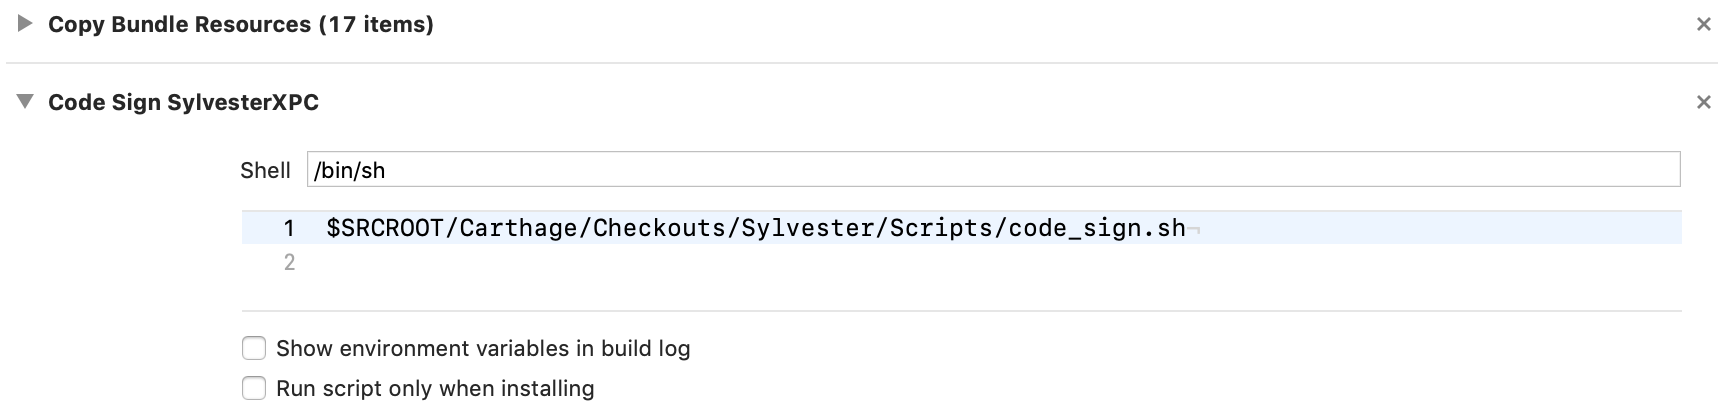
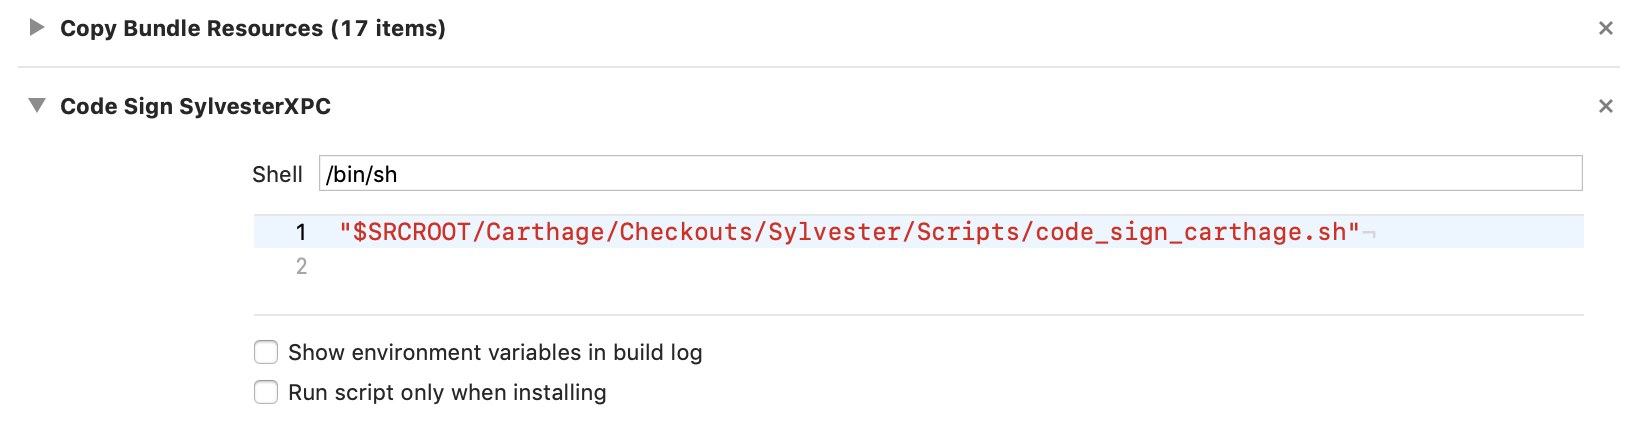
Update code signing scripts

diff --git a/README.md b/README.md
@@ -118,17 +118,17 @@ Dependencies
 Code Signing
 ============
 
-If you decide to use the `SylvesterXPC` module, you will need to add a '_Run Script_' phase before embedding the _SylvesterXPC.framework_ (i.e. before the '_Embed Frameworks_' phase). Ensure the shell launch path is `/bin/sh` (default). Then for the script, execute the `code_sign.sh` shell script in the repository's _Scripts_ directory.
-
-For Carthage installations, the script should look like:
+If you decide to use the `SylvesterXPC` module, you will need to add a '_Run Script_' phase before embedding the _SylvesterXPC.framework_ (i.e. before the '_Embed Frameworks_' phase). Ensure the shell launch path is `/bin/sh` (default). Then for Carthage installations, execute the `code_sign_carthage.sh` shell script in the repository's _Scripts_ directory.
 
 ```shell
-$SRCROOT/Carthage/Checkouts/Sylvester/Scripts/code_sign.sh
+"$SRCROOT/Carthage/Checkouts/Sylvester/Scripts/code_sign_carthage.sh"
 ```
 
 <p align="center">
      <img src="https://github.com/chriszielinski/Sylvester/blob/master/.readme-assets/code-sign.png?raw=true" alt="Code Sign Phase">
  </p>
+
+For other installations, modify the script's paths as neccessary.
 
 
 Documentation
